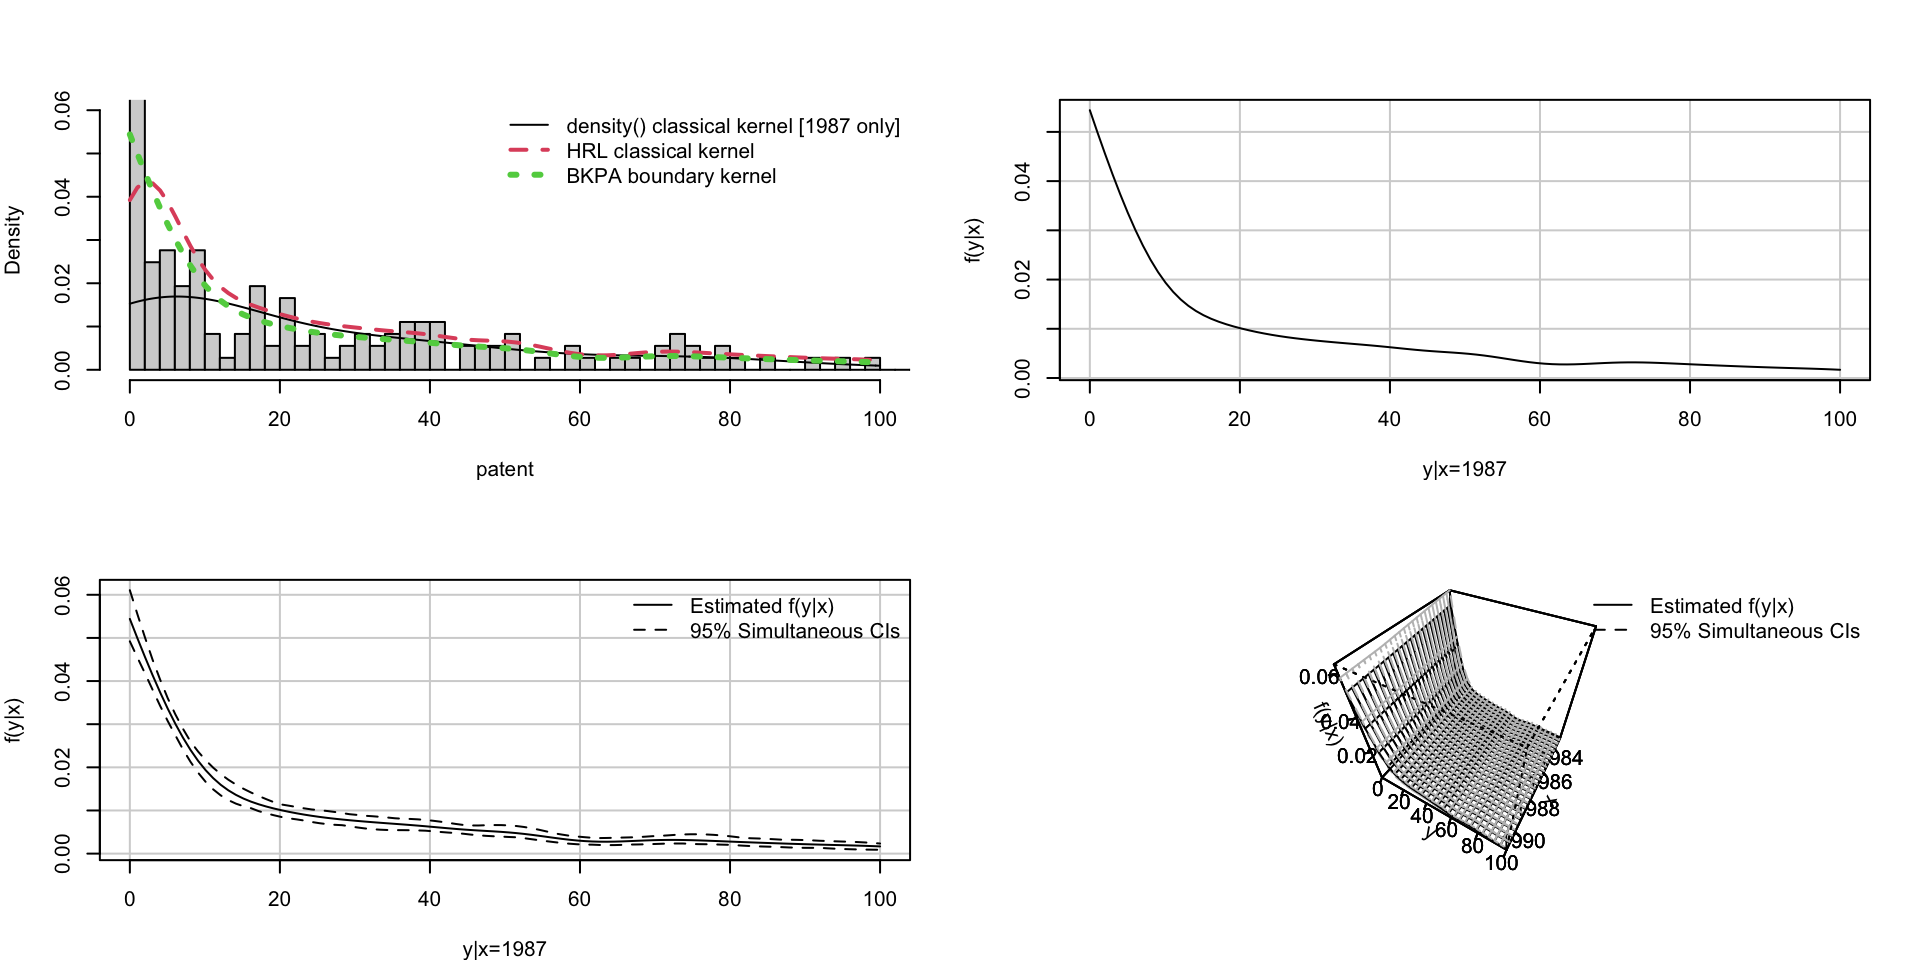
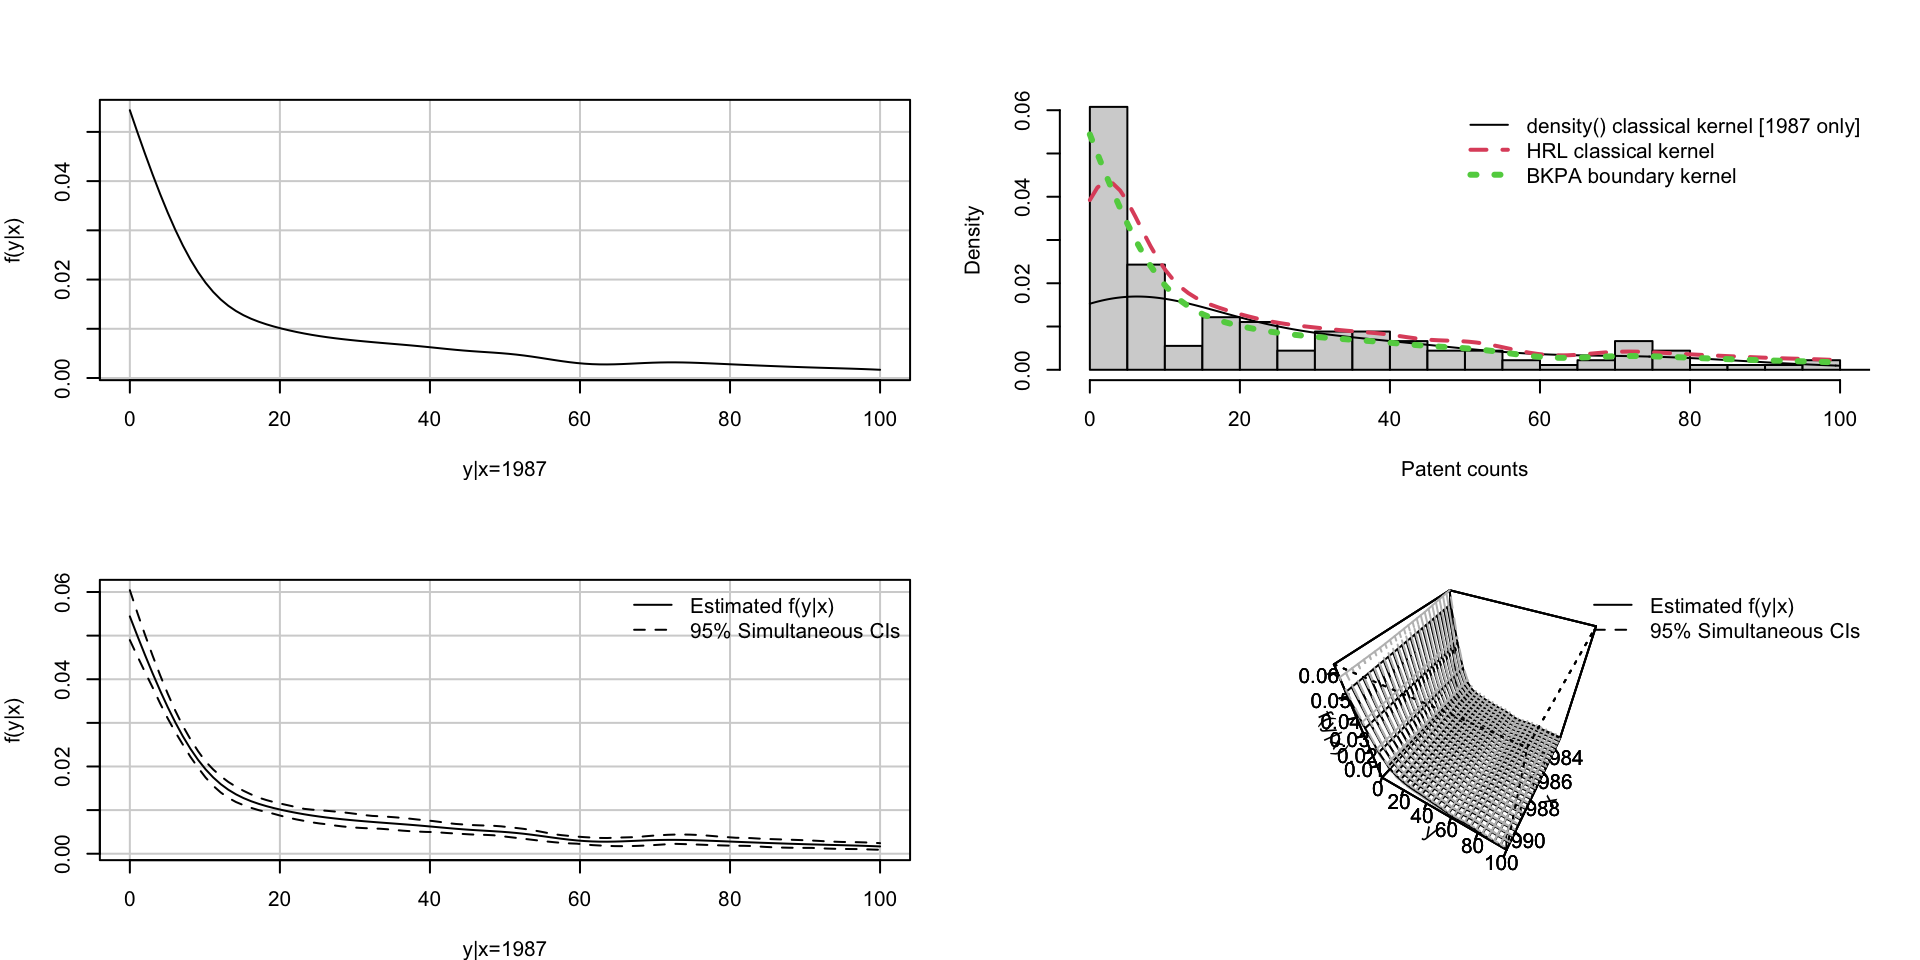
Rearranging order of plots in patent illustration

diff --git a/index.html b/index.html
@@ -1015,15 +1015,15 @@ Figure&nbsp;7: Conditional KDE for <span class="math inline">\(\textrm{Beta}(1+x
 <span id="cb8-36"><a href=""></a><span class="do">## replications to 399.</span></span>
 <span id="cb8-37"><a href=""></a>B <span class="ot">&lt;-</span> <span class="dv">399</span></span>
 <span id="cb8-38"><a href=""></a><span class="fu">par</span>(<span class="at">mfrow=</span><span class="fu">c</span>(<span class="dv">2</span>,<span class="dv">2</span>),<span class="at">cex=</span>.<span class="dv">65</span>,<span class="at">mar=</span><span class="fu">c</span>(<span class="dv">4</span>,<span class="dv">4</span>,<span class="dv">4</span>,<span class="dv">2</span>))</span>
-<span id="cb8-39"><a href=""></a><span class="fu">hist</span>(y[x<span class="sc">==</span><span class="dv">1987</span>],<span class="at">xlab=</span><span class="st">"patent"</span>,<span class="at">main=</span><span class="st">""</span>,<span class="at">ylim=</span><span class="fu">c</span>(<span class="dv">0</span>,<span class="fl">0.06</span>),<span class="at">xlim=</span><span class="fu">c</span>(<span class="dv">0</span>,<span class="dv">100</span>),<span class="at">prob=</span><span class="cn">TRUE</span>,<span class="at">breaks=</span><span class="dv">500</span>)</span>
-<span id="cb8-40"><a href=""></a><span class="fu">lines</span>(<span class="fu">density</span>(y[x<span class="sc">==</span><span class="dv">1987</span>],<span class="at">from=</span><span class="dv">0</span>,<span class="at">to=</span><span class="dv">100</span>),<span class="at">lty=</span><span class="dv">1</span>,<span class="at">col=</span><span class="dv">1</span>)</span>
-<span id="cb8-41"><a href=""></a><span class="fu">lines</span>(<span class="fu">seq</span>(<span class="fu">min</span>(y),<span class="dv">100</span>,<span class="at">length=</span><span class="dv">100</span>),<span class="fu">predict</span>(f.hrl,<span class="at">newdata=</span><span class="fu">data.frame</span>(<span class="at">x=</span><span class="fu">rep</span>(<span class="dv">1987</span>,<span class="dv">100</span>),<span class="at">y=</span><span class="fu">seq</span>(<span class="fu">min</span>(y),<span class="dv">100</span>,<span class="at">length=</span><span class="dv">100</span>))),</span>
-<span id="cb8-42"><a href=""></a>      <span class="at">col=</span><span class="dv">2</span>,<span class="at">lty=</span><span class="dv">2</span>,<span class="at">lwd=</span><span class="dv">2</span>)</span>
-<span id="cb8-43"><a href=""></a><span class="fu">lines</span>(<span class="fu">seq</span>(<span class="fu">min</span>(y),<span class="dv">100</span>,<span class="at">length=</span><span class="dv">100</span>),<span class="fu">predict</span>(f.bkcde,<span class="at">newdata=</span><span class="fu">data.frame</span>(<span class="at">x=</span><span class="fu">rep</span>(<span class="dv">1987</span>,<span class="dv">100</span>),<span class="at">y=</span><span class="fu">seq</span>(<span class="fu">min</span>(y),<span class="dv">100</span>,<span class="at">length=</span><span class="dv">100</span>))),</span>
-<span id="cb8-44"><a href=""></a>      <span class="at">col=</span><span class="dv">3</span>,<span class="at">lty=</span><span class="dv">3</span>,<span class="at">lwd=</span><span class="dv">3</span>)</span>
-<span id="cb8-45"><a href=""></a><span class="fu">legend</span>(<span class="st">"topright"</span>,<span class="at">legend=</span><span class="fu">c</span>(<span class="st">"density() classical kernel [1987 only]"</span>,<span class="st">"HRL classical kernel"</span>,<span class="st">"BKPA boundary kernel"</span>),</span>
-<span id="cb8-46"><a href=""></a>       <span class="at">col=</span><span class="dv">1</span><span class="sc">:</span><span class="dv">3</span>,<span class="at">lty=</span><span class="dv">1</span><span class="sc">:</span><span class="dv">3</span>,<span class="at">lwd=</span><span class="fu">c</span>(<span class="dv">1</span>,<span class="dv">2</span>,<span class="dv">3</span>),<span class="at">bty=</span><span class="st">"n"</span>)</span>
-<span id="cb8-47"><a href=""></a><span class="fu">plot</span>(f.bkcde,<span class="at">persp=</span><span class="cn">FALSE</span>,<span class="at">x.eval=</span><span class="dv">1987</span>,<span class="at">y.eval=</span><span class="fu">seq</span>(<span class="fu">min</span>(y),<span class="dv">100</span>,<span class="at">length=</span><span class="dv">100</span>),<span class="at">xlim=</span><span class="fu">c</span>(<span class="dv">0</span>,<span class="dv">100</span>))</span>
+<span id="cb8-39"><a href=""></a><span class="fu">plot</span>(f.bkcde,<span class="at">persp=</span><span class="cn">FALSE</span>,<span class="at">x.eval=</span><span class="dv">1987</span>,<span class="at">y.eval=</span><span class="fu">seq</span>(<span class="fu">min</span>(y),<span class="dv">100</span>,<span class="at">length=</span><span class="dv">100</span>),<span class="at">xlim=</span><span class="fu">c</span>(<span class="dv">0</span>,<span class="dv">100</span>))</span>
+<span id="cb8-40"><a href=""></a><span class="fu">hist</span>(y[x<span class="sc">==</span><span class="dv">1987</span>],<span class="at">xlab=</span><span class="st">"Patent counts"</span>,<span class="at">main=</span><span class="st">""</span>,<span class="at">ylim=</span><span class="fu">c</span>(<span class="dv">0</span>,<span class="fl">0.06</span>),<span class="at">xlim=</span><span class="fu">c</span>(<span class="dv">0</span>,<span class="dv">100</span>),<span class="at">prob=</span><span class="cn">TRUE</span>,<span class="at">breaks=</span><span class="dv">250</span>)</span>
+<span id="cb8-41"><a href=""></a><span class="fu">lines</span>(<span class="fu">density</span>(y[x<span class="sc">==</span><span class="dv">1987</span>],<span class="at">from=</span><span class="dv">0</span>,<span class="at">to=</span><span class="dv">100</span>),<span class="at">lty=</span><span class="dv">1</span>,<span class="at">col=</span><span class="dv">1</span>)</span>
+<span id="cb8-42"><a href=""></a><span class="fu">lines</span>(<span class="fu">seq</span>(<span class="fu">min</span>(y),<span class="dv">100</span>,<span class="at">length=</span><span class="dv">100</span>),<span class="fu">predict</span>(f.hrl,<span class="at">newdata=</span><span class="fu">data.frame</span>(<span class="at">x=</span><span class="fu">rep</span>(<span class="dv">1987</span>,<span class="dv">100</span>),<span class="at">y=</span><span class="fu">seq</span>(<span class="fu">min</span>(y),<span class="dv">100</span>,<span class="at">length=</span><span class="dv">100</span>))),</span>
+<span id="cb8-43"><a href=""></a>      <span class="at">col=</span><span class="dv">2</span>,<span class="at">lty=</span><span class="dv">2</span>,<span class="at">lwd=</span><span class="dv">2</span>)</span>
+<span id="cb8-44"><a href=""></a><span class="fu">lines</span>(<span class="fu">seq</span>(<span class="fu">min</span>(y),<span class="dv">100</span>,<span class="at">length=</span><span class="dv">100</span>),<span class="fu">predict</span>(f.bkcde,<span class="at">newdata=</span><span class="fu">data.frame</span>(<span class="at">x=</span><span class="fu">rep</span>(<span class="dv">1987</span>,<span class="dv">100</span>),<span class="at">y=</span><span class="fu">seq</span>(<span class="fu">min</span>(y),<span class="dv">100</span>,<span class="at">length=</span><span class="dv">100</span>))),</span>
+<span id="cb8-45"><a href=""></a>      <span class="at">col=</span><span class="dv">3</span>,<span class="at">lty=</span><span class="dv">3</span>,<span class="at">lwd=</span><span class="dv">3</span>)</span>
+<span id="cb8-46"><a href=""></a><span class="fu">legend</span>(<span class="st">"topright"</span>,<span class="at">legend=</span><span class="fu">c</span>(<span class="st">"density() classical kernel [1987 only]"</span>,<span class="st">"HRL classical kernel"</span>,<span class="st">"BKPA boundary kernel"</span>),</span>
+<span id="cb8-47"><a href=""></a>       <span class="at">col=</span><span class="dv">1</span><span class="sc">:</span><span class="dv">3</span>,<span class="at">lty=</span><span class="dv">1</span><span class="sc">:</span><span class="dv">3</span>,<span class="at">lwd=</span><span class="fu">c</span>(<span class="dv">1</span>,<span class="dv">2</span>,<span class="dv">3</span>),<span class="at">bty=</span><span class="st">"n"</span>)</span>
 <span id="cb8-48"><a href=""></a><span class="fu">plot</span>(f.bkcde,<span class="at">persp=</span><span class="cn">FALSE</span>,<span class="at">x.eval=</span><span class="dv">1987</span>,<span class="at">y.eval=</span><span class="fu">seq</span>(<span class="fu">min</span>(y),<span class="dv">100</span>,<span class="at">length=</span><span class="dv">100</span>),<span class="at">xlim=</span><span class="fu">c</span>(<span class="dv">0</span>,<span class="dv">100</span>),</span>
 <span id="cb8-49"><a href=""></a>     <span class="at">ci=</span><span class="cn">TRUE</span>,<span class="at">ci.method=</span><span class="st">"Simultaneous"</span>,<span class="at">ci.preplot=</span><span class="cn">FALSE</span>,<span class="at">B=</span>B)</span>
 <span id="cb8-50"><a href=""></a><span class="fu">plot</span>(f.bkcde,<span class="at">x.eval=</span><span class="fu">seq</span>(<span class="fu">min</span>(x),<span class="fu">max</span>(x),<span class="at">length=</span><span class="dv">25</span>),<span class="at">y.eval=</span><span class="fu">seq</span>(<span class="fu">min</span>(y),<span class="dv">100</span>,<span class="at">length=</span><span class="dv">25</span>),</span>
